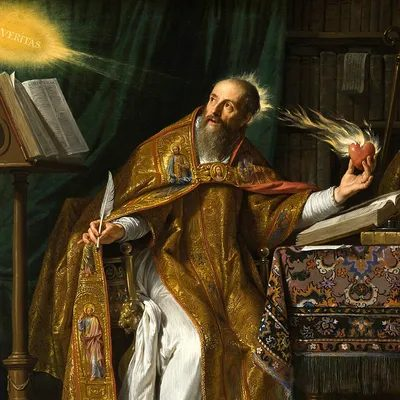
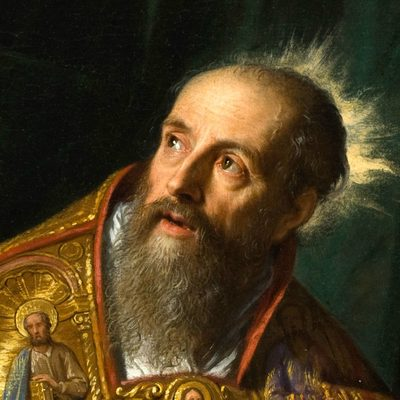
fix: todo pensador com foto e todo livro com capa
Refaz 7 retratos em que o rosto não aparecia ou estava desbotado (Diógenes, Lucrécio,
Confúcio, Lao-Tsé, Zhuangzi, Agostinho, Buda), dá foto a Al-Ghazali e capa ao livro do
Cioran. Iris Murdoch sai do catálogo porque não há foto livre dela. Teste novo impede
pensador sem foto ou livro sem capa.

diff --git a/tests/catalog.test.ts b/tests/catalog.test.ts
@@ -9,7 +9,7 @@ test('catálogo completo e consistente', () => {
   const schools = getSchools();
   const thinkers = getThinkers();
   expect(schools).toHaveLength(30);
-  expect(thinkers.length).toBeGreaterThanOrEqual(77);
+  expect(thinkers.length).toBeGreaterThanOrEqual(76);
   const vs = getVectors();
   const familias = new Set(getFamilies().map(f => f.id));
   const ids = new Set(thinkers.map(t => t.id));
@@ -42,4 +42,9 @@ test('calibração no catálogo real de escolas', () => {
     total++;
   }
   expect(acertos / total).toBeGreaterThanOrEqual(0.9);
+});
+
+test('todo pensador tem foto e todo livro tem capa', () => {
+  expect(getThinkers().filter(t => !t.portrait).map(t => t.id)).toEqual([]);
+  expect(getBooks().filter(b => !existsSync(`public/capas/${b.id}.webp`)).map(b => b.id)).toEqual([]);
 });

diff --git a/tests/books.test.ts b/tests/books.test.ts
@@ -21,6 +21,6 @@ test('pega só o primeiro livro de cada pensador', () => {
 test('capa real do livro quando existe, e nada quando não tem (cai na capa desenhada)', async () => {
   const { capaDoLivro } = await import('@/lib/books');
   expect(capaDoLivro('marco-aurelio-1')).toBe('/capas/marco-aurelio-1.webp');
-  expect(capaDoLivro('cioran-1')).toBeNull();
+  expect(capaDoLivro('livro-que-nao-existe-1')).toBeNull();
   expect(capaDoLivro('../../etc/passwd')).toBeNull();
 });

diff --git a/README.md b/README.md
@@ -2,7 +2,7 @@
 
 # 8eixos
 
-Um quiz de filosofia de vida que mede você em oito eixos independentes e mostra quais das 30 escolas filosóficas e dos 77 pensadores mais se parecem com o seu jeito de viver.
+Um quiz de filosofia de vida que mede você em oito eixos independentes e mostra quais das 30 escolas filosóficas e dos 76 pensadores mais se parecem com o seu jeito de viver.
 
 **[8eixos.vercel.app](https://8eixos.vercel.app)** · em português · sem cadastro · grátis
 
@@ -36,7 +36,7 @@ Um quiz anônimo. Você responde a frases numa escala de concordância (ou escol
 ### O que o diferencia
 
 - **Eixos medidos de forma independente.** O resultado guarda tensões e combinações incomuns, em vez de forçar um rótulo único.
-- **Catálogo variado.** Tem tradições gregas, orientais, cristãs, judaica, islâmica, espírita, africana e modernas, com 7 mulheres entre os pensadores e um brasileiro, Machado de Assis.
+- **Catálogo variado.** Tem tradições gregas, orientais, cristãs, judaica, islâmica, espírita, africana e modernas, com 6 mulheres entre os pensadores e um brasileiro, Machado de Assis.
 - **Perfis calculados, não colocados à mão.** Cada escola e cada pensador respondeu às mesmas 120 perguntas que você responde, e a posição dele vem dessas respostas.
 - **Card pronto para o story**, comparação eixo a eixo com amigos, pensadores ou escolas, e um link que refaz o resultado sem guardar nada em servidor.
 
